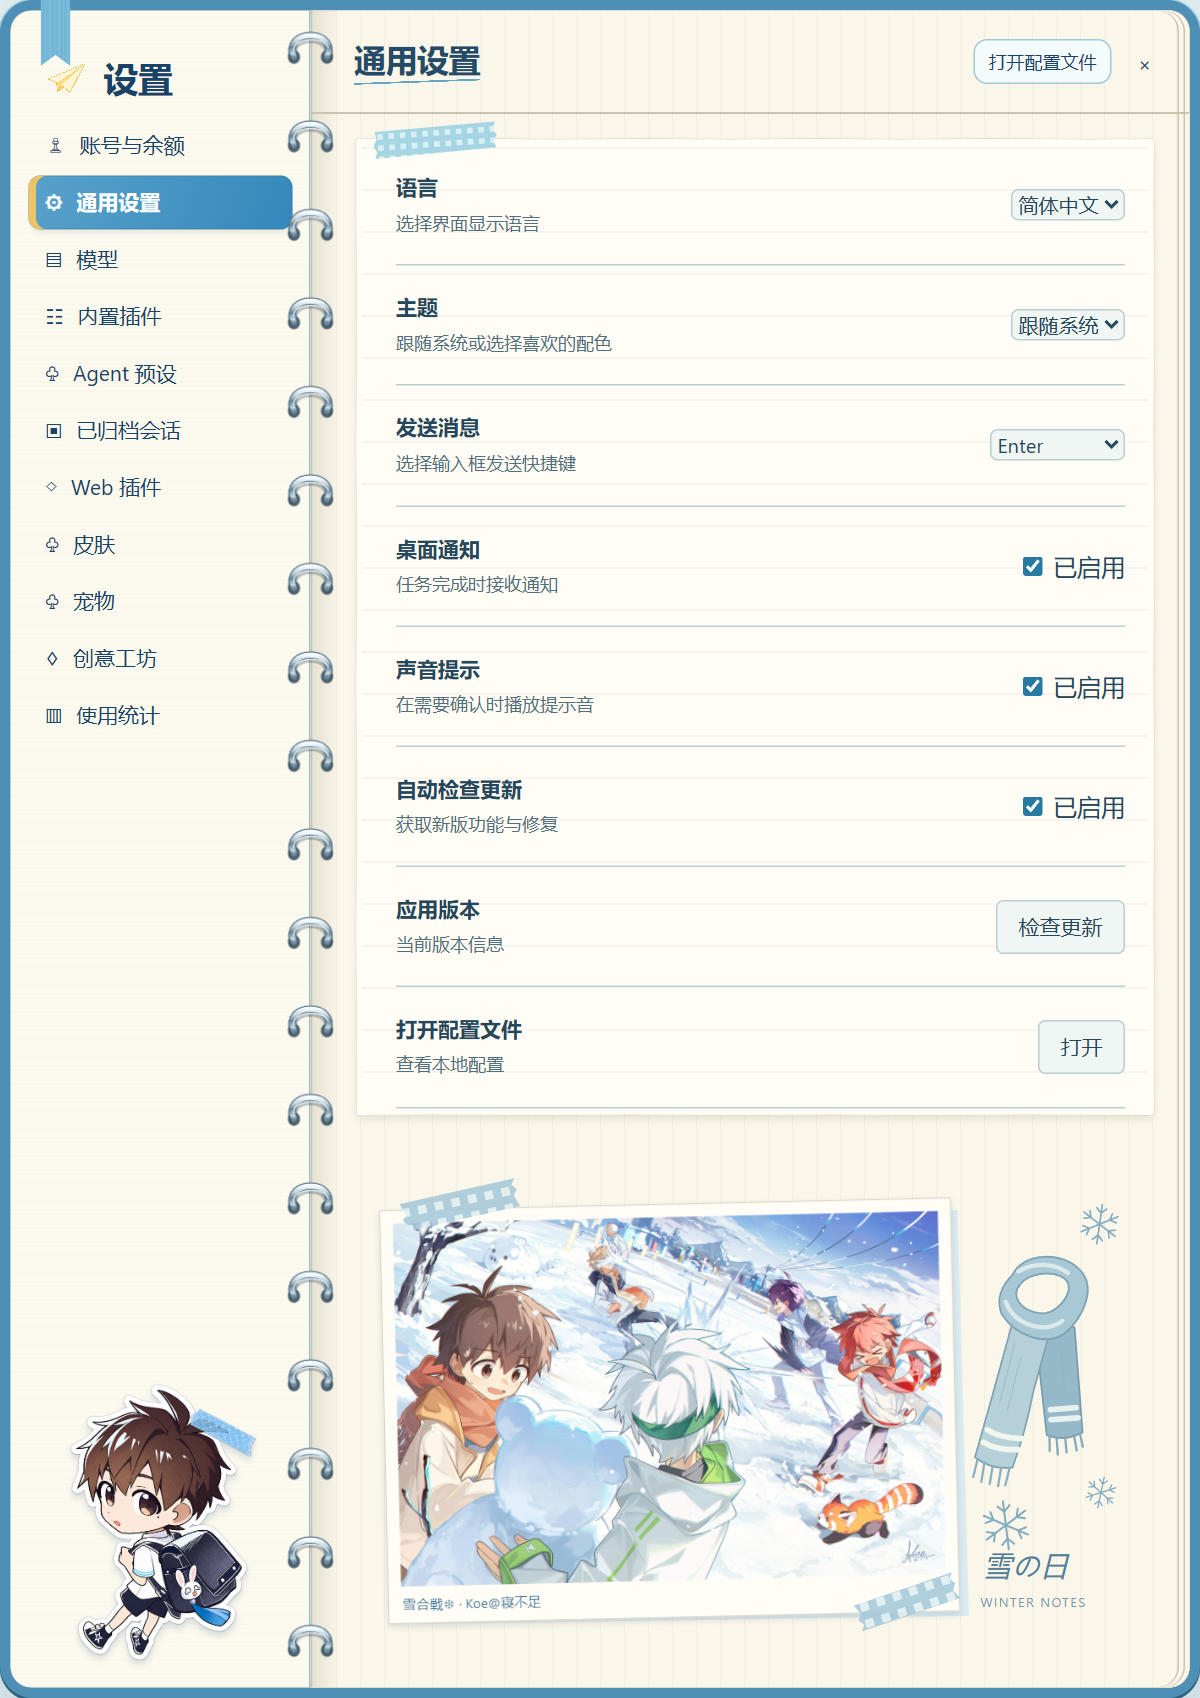
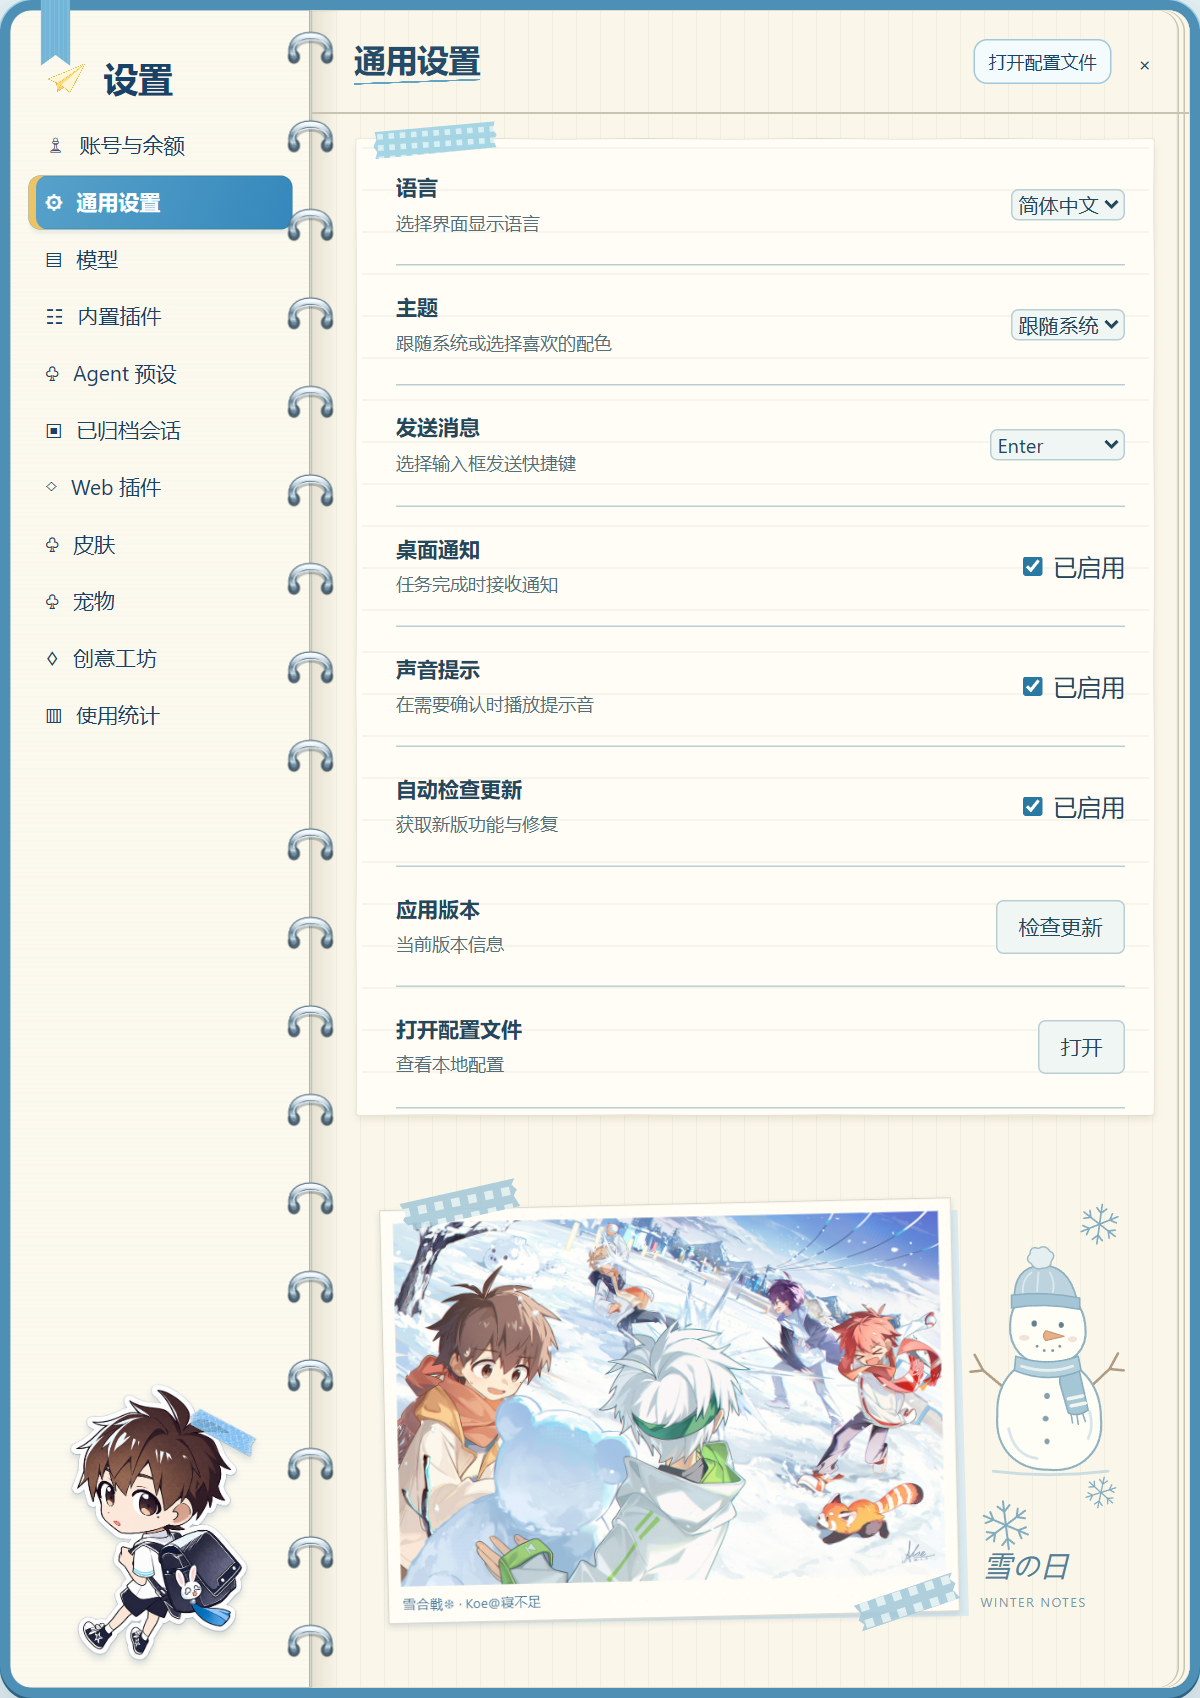
Replace standalone scarf with a winter snowman

Changed region(s): [[0.8017, 0.7179, 0.925, 0.874]]

diff --git a/README.en.md b/README.en.md
@@ -31,7 +31,7 @@ Each illustration sits beneath the settings content, alongside navigation, contr
 <td width="50%" valign="top">
 <h3>General</h3>
 <a href="previews/settings-general.png"><img src="previews/settings-general.png" alt="General" width="100%"></a>
-<p>Icy blue photo paper, snowflakes and a scarf.</p>
+<p>Icy blue photo paper, six-armed snowflakes and a little snowman wearing a scarf.</p>
 </td>
 <td width="50%" valign="top">
 <h3>Models</h3>

diff --git a/README.ja.md b/README.ja.md
@@ -31,7 +31,7 @@
 <td width="50%" valign="top">
 <h3>一般設定</h3>
 <a href="previews/settings-general.png"><img src="previews/settings-general.png" alt="一般設定" width="100%"></a>
-<p>氷色の写真用紙、雪の結晶とマフラー。</p>
+<p>氷色の写真用紙、六花の雪の結晶とマフラーを巻いた雪だるま。</p>
 </td>
 <td width="50%" valign="top">
 <h3>モデル</h3>

diff --git a/README.md b/README.md
@@ -31,7 +31,7 @@
 <td width="50%" valign="top">
 <h3>通用设置</h3>
 <a href="previews/settings-general.png"><img src="previews/settings-general.png" alt="通用设置" width="100%"></a>
-<p>冰蓝相纸、雪花与围巾。</p>
+<p>冰蓝相纸、六瓣雪花与戴围巾的小雪人。</p>
 </td>
 <td width="50%" valign="top">
 <h3>模型</h3>
